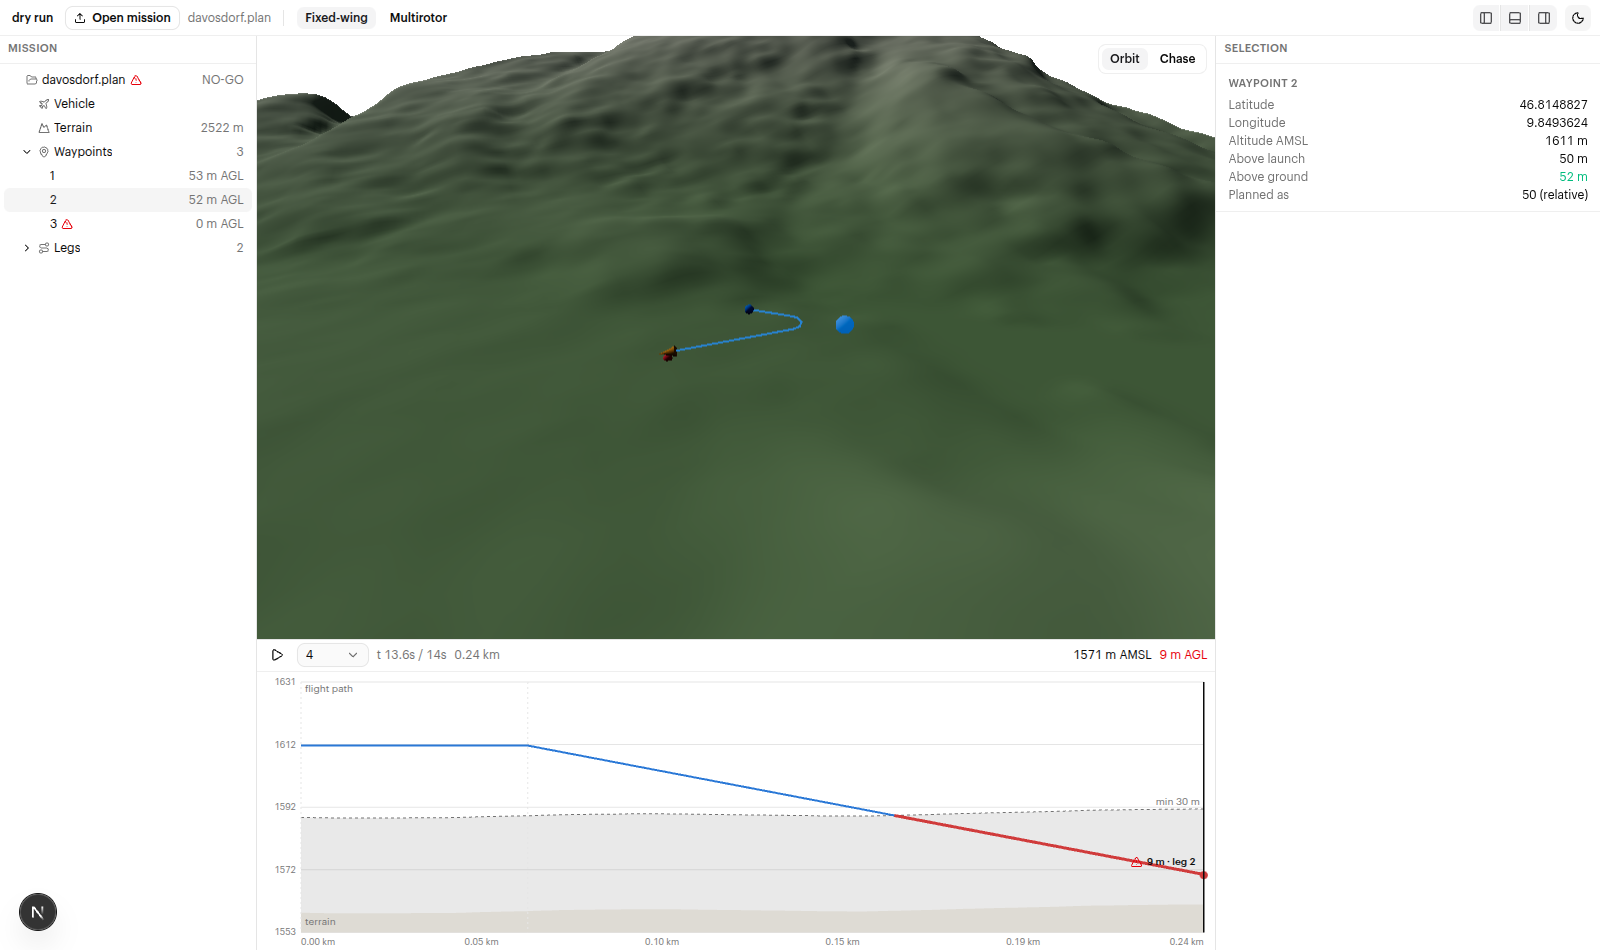
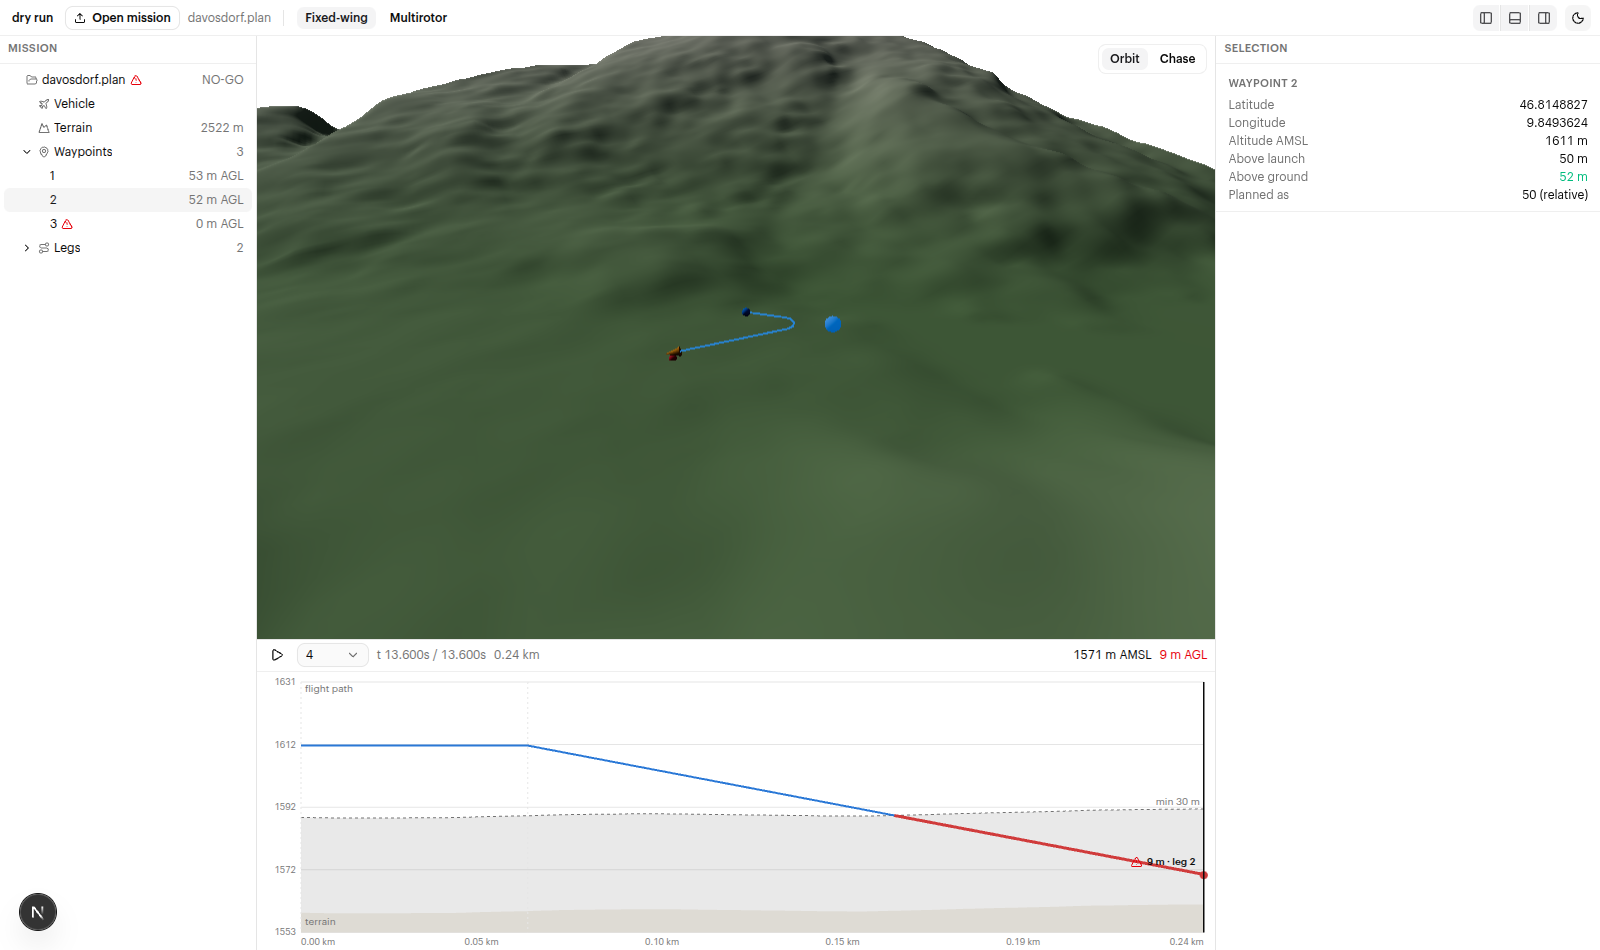
Show flight time to the millisecond instead of rounding
The readout rounded the denominator but not the numerator, so a finished
flight displayed as 13.6s / 14s and looked like it had stopped short.

diff --git a/components/inspector.tsx b/components/inspector.tsx
@@ -180,7 +180,7 @@ export function Inspector({
               <Field label="Distance" value={`${(survey.distanceM / 1000).toFixed(2)} km`} />
               <Field
                 label="Flight time"
-                value={`${Math.floor(survey.durationS / 60)}m ${Math.round(survey.durationS % 60)}s`}
+                value={`${Math.floor(survey.durationS / 60)}m ${(survey.durationS % 60).toFixed(3)}s`}
               />
               <Field
                 label="Min clearance"

diff --git a/components/timeline.tsx b/components/timeline.tsx
@@ -379,7 +379,7 @@ export function Timeline({
           </SelectContent>
         </Select>
         <span className="text-muted-foreground tabular-nums">
-          t {cur.t.toFixed(1)}s / {survey.durationS.toFixed(0)}s
+          t {cur.t.toFixed(3)}s / {survey.durationS.toFixed(3)}s
         </span>
         <span className="text-muted-foreground tabular-nums">
           {(cur.s! / 1000).toFixed(2)} km
